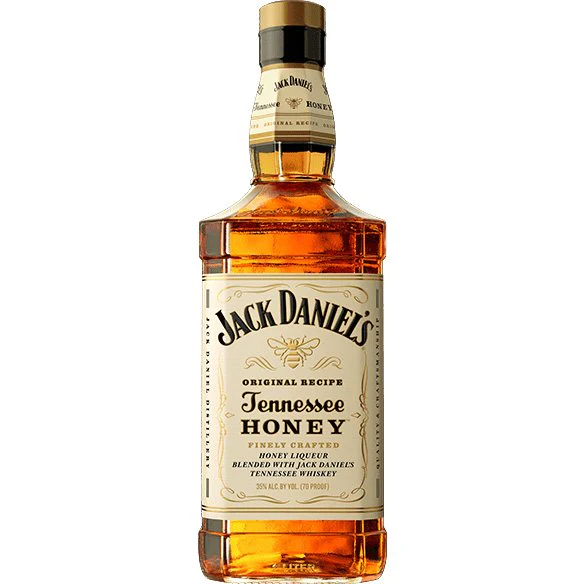
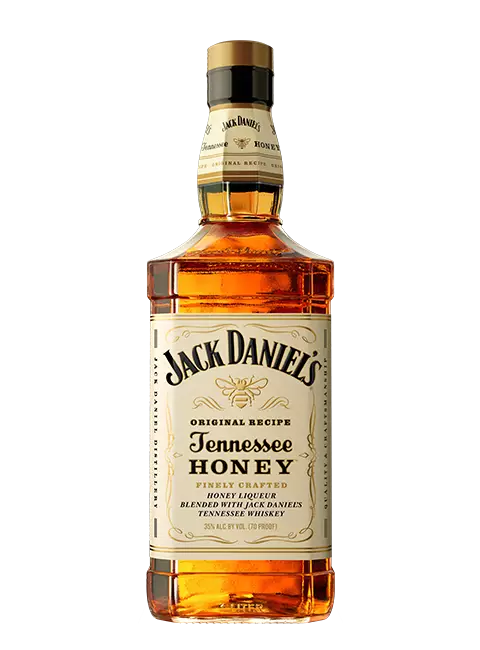
Adding no background on image of product

Changed region(s): [[0.2812, 0.0, 0.7188, 1.0]]

diff --git a/src/app/Feature.tsx b/src/app/Feature.tsx
@@ -9,16 +9,16 @@ const Feature = () => {
   const productSets = [
     [
       { name: "JD with Honey", image: "/assets/product1.webp" },
-      { name: "Single Barrel(RYE)", image: "/assets/product3.jpg" },
-      { name: "Single Barrel(Select)", image: "/assets/product2.jpg" },
+      { name: "Single Barrel(RYE)", image: "/assets/product3.png" },
+      { name: "Single Barrel(Select)", image: "/assets/product2.png" },
     ],
     [
-      { name: "JD", image: "/assets/product4.webp" },
-      { name: "JD (RYE)", image: "/assets/product5.jpg" },
+      { name: "JD", image: "/assets/product4.png" },
+      { name: "JD (RYE)", image: "/assets/product5.png" },
       { name: "American Single Malt", image: "/assets/product6.webp" },
     ],
     [
-      { name: "Tennese Apple", image: "/assets/product7.jpg" },
+      { name: "Tennese Apple", image: "/assets/product7.png" },
     ],
   ]
 
@@ -46,7 +46,17 @@ const Feature = () => {
                       {productSet.map((product) => (
                       <div key={product.name} className="bg-white rounded-lg shadow-md overflow-hidden flex flex-col h-full">
                       {/* Image Container */}
-                      <div className="relative h-48 flex justify-center items-center bg-gray-100">
+                      <div className="relative h-64 flex justify-center items-center bg-gray-100">
+                          <Image
+                            src={product.image || "/placeholder.svg"}
+                            alt={product.name}
+                            width={300}
+                            height={300}
+                            className="object-contain max-h-full max-w-full"
+                            sizes="(max-width: 768px) 100vw, 300px"
+                          />
+                        </div>
+                      {/* <div className="relative h-48 flex justify-center items-center bg-gray-100">
                         <Image
                           src={product.image || "/placeholder.svg"}
                           alt={product.name}
@@ -54,7 +64,7 @@ const Feature = () => {
                           height={200}
                           className="object-contain max-h-full"
                         />
-                      </div>
+                      </div> */}
                     
                       {/* Content Section */}
                       <div className="p-6 flex flex-col flex-grow">
